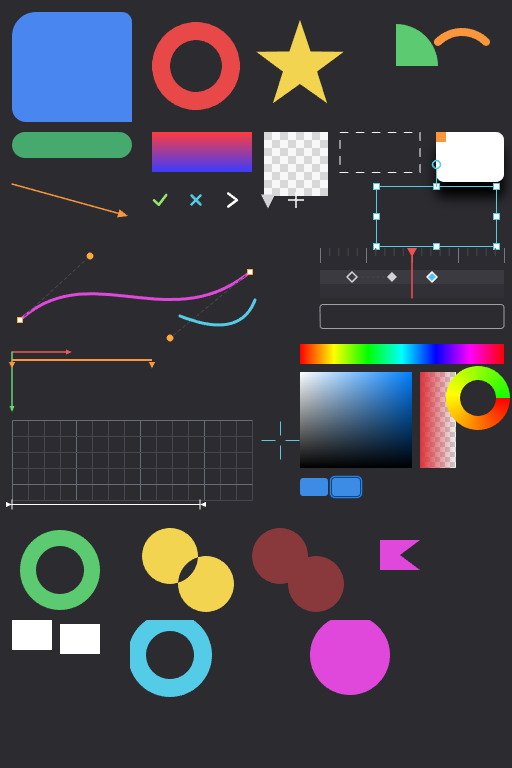
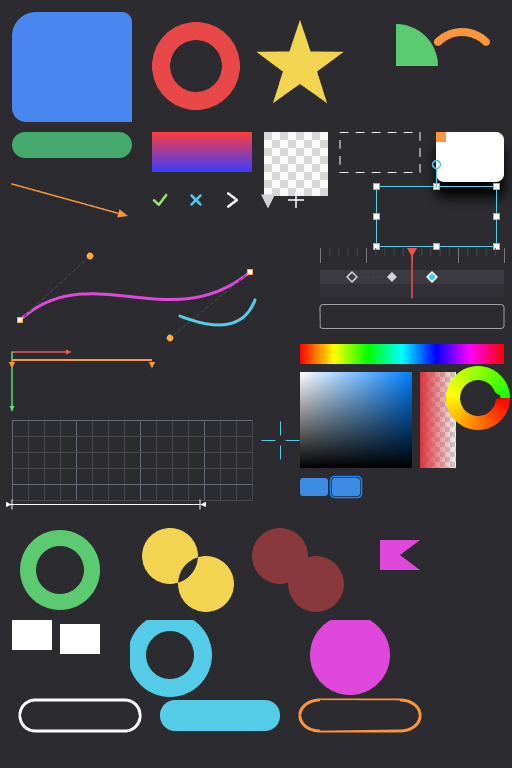
r

Changed region(s): [[0.3125, 0.9062, 0.8438, 0.9688], [0.0312, 0.9062, 0.2812, 0.9688]]

diff --git a/gui/vgui.cpp b/gui/vgui.cpp
@@ -11593,6 +11593,15 @@ static void vgui_draw_button_gradient(vgui_widget* w, ovg_ctx_cb* cb, rvg_t* vg,
 
 	float x = w->abs_x, y = w->abs_y, ww = w->abs_w, hh = w->abs_h;
 
+	// 半径口径：向下取整，且不超过 min(w,h)/2。31px 高的胶囊若按 rounding 原值走，
+	// 半高是 15.5，取整成 16 会越过边界、两端圆弧自交，描边随之退化（端头那两条游离的
+	// 1px 竖线）。ovg_rounded_rectangle 内部已改成同一口径（先取整后夹），这里显式算一遍
+	// 是为了让底色、渐变、两条描边共用同一个半径值。
+	auto pill_radius = [](float rw, float rh, float r)
+	{
+		return std::min(std::floor(r), std::floor(std::min(rw, rh) * 0.5f));
+	};
+
 	// 按下态视觉凹陷：背景整体下移 press_offset，与 text/icon 的按下偏移量对齐
 	float translate_y = pushed ? ctx->style.button.press_offset : 0.0f;
 
@@ -11604,7 +11613,8 @@ static void vgui_draw_button_gradient(vgui_widget* w, ovg_ctx_cb* cb, rvg_t* vg,
 	{
 		float t2 = thickness > 1 ? thickness : 0.0f;
 		cb->set_source_color(vg, vgui_ovg_color(w->bg));
-		cb->rounded_rectangle(vg, x + t2, y + t2, ww - t2 * 2, hh - t2 * 2, rounding);
+		cb->rounded_rectangle(vg, x + t2, y + t2, ww - t2 * 2, hh - t2 * 2,
+			pill_radius(ww - t2 * 2, hh - t2 * 2, rounding));
 		cb->fill(vg);
 	}
 
@@ -11613,7 +11623,7 @@ static void vgui_draw_button_gradient(vgui_widget* w, ovg_ctx_cb* cb, rvg_t* vg,
 	if (pad > 0)
 		cb->translate(vg, pad, pad);
 	vgui_paint_linear_rect(cb, vg,
-		x, y, ww - pad * 2, hh - pad * 2, rounding,
+		x, y, ww - pad * 2, hh - pad * 2, pill_radius(ww - pad * 2, hh - pad * 2, rounding),
 		gradTop, gradBot);
 	if (pad > 0)
 		cb->translate(vg, -pad, -pad);
@@ -11626,14 +11636,17 @@ static void vgui_draw_button_gradient(vgui_widget* w, ovg_ctx_cb* cb, rvg_t* vg,
 	// 上沿高光（不画底部）
 	cb->set_source_color(vg, vgui_ovg_color(borderLight));
 	if (pushed)
-		cb->rounded_rectangle(vg, x + half, y + half, ww - line_w, hh - line_w, rounding);
+		cb->rounded_rectangle(vg, x + half, y + half, ww - line_w, hh - line_w,
+			pill_radius(ww - line_w, hh - line_w, rounding));
 	else
-		cb->rounded_rectangle(vg, x + half, y + half + 1.0f, ww - line_w, hh - line_w - 1.0f, rounding);
+		cb->rounded_rectangle(vg, x + half, y + half + 1.0f, ww - line_w, hh - line_w - 1.0f,
+			pill_radius(ww - line_w, hh - line_w - 1.0f, rounding));
 	cb->stroke(vg);
 
 	// 下沿阴影（完整轮廓）
 	cb->set_source_color(vg, vgui_ovg_color(borderDark));
-	cb->rounded_rectangle(vg, x + half, y + half, ww - line_w, hh - line_w, rounding);
+	cb->rounded_rectangle(vg, x + half, y + half, ww - line_w, hh - line_w,
+		pill_radius(ww - line_w, hh - line_w, rounding));
 	cb->stroke(vg);
 
 	cb->restore(vg);

diff --git a/sample/ovg_tools_test.cpp b/sample/ovg_tools_test.cpp
@@ -299,6 +299,23 @@ int main(int argc, char** argv)
 	ot::fill_rect(cb, vg, 300, 620, 100, 80, MAGENTA);
 	cb->reset_clip(vg, 1);
 
+	// ---- 圆角半径超界回归（直接调 ovg 原生 API，绕开 tools 的半径预取整） ----
+	// h = 31，半高 15.5；半径给 20 远超半高。若 ovg 内部"先夹取后取整"，round(15.5)=16 会
+	// 顶出边界半像素、胶囊端头路径自交：填充靠非零环绕仍成型，描边却丢掉端头圆弧。
+	cb->new_path(vg);
+	cb->rounded_rectangle(vg, 20, 700, 120, 31, 20);
+	cb->set_line_width(vg, 3.f);
+	cb->set_source_color(vg, WHITE);
+	cb->stroke(vg);
+	// 同样超界半径的填充（走 tools 预取整）：四角被切掉，顶边中点仍实心
+	ot::fill_round_rect(cb, vg, 160, 700, 120, 31, 20, CYAN);
+	// 椭圆角版本同样超界，端头同样不能丢
+	cb->new_path(vg);
+	cb->rounded_rectangle2(vg, 300, 700, 120, 31, 20, 99);
+	cb->set_line_width(vg, 3.f);
+	cb->set_source_color(vg, ORANGE);
+	cb->stroke(vg);
+
 	// ---- 提交并读回 ----
 	ovg_draw_data_t data = get_draw_list(vg);
 	data.fbo = &fbo;
@@ -445,6 +462,20 @@ int main(int argc, char** argv)
 	expect_pixel(32, 635, WHITE, "disjoint rect 1");
 	expect_pixel(80, 639, WHITE, "disjoint rect 2");
 	expect_pixel(56, 635, BG, "disjoint gap");
+	// 圆角半径超界（h=31/半高 15.5，r=20）：端头圆弧不能丢
+	expect_pixel(80, 700, WHITE, "oversize r top edge");
+	expect_pixel(80, 730, WHITE, "oversize r bottom edge");
+	expect_pixel(20, 715, WHITE, "oversize r left cap");
+	expect_pixel(140, 715, WHITE, "oversize r right cap");
+	expect_pixel(80, 715, BG, "oversize r hollow");
+	// 填充超界半径：四角仍被切掉，中线实心
+	expect_pixel(220, 700, CYAN, "oversize fill top edge");
+	expect_pixel(220, 715, CYAN, "oversize fill body");
+	expect_pixel(161, 701, BG, "oversize fill corner cut");
+	// 椭圆角超界（rx=20→15, ry=99→15）。椭圆弧走折线近似，中心线比 x/y 略内收半像素，
+	// 因此取描边实心处而非几何中心。
+	expect_pixel(360, 699, ORANGE, "oversize rect2 top edge");
+	expect_pixel(299, 715, ORANGE, "oversize rect2 left cap");
 	// 复合路径裁剪
 	expect_pixel(170, 624, CYAN, "compound clip band");		// r=31 在环带内
 	expect_pixel(170, 655, BG, "compound clip hole");
